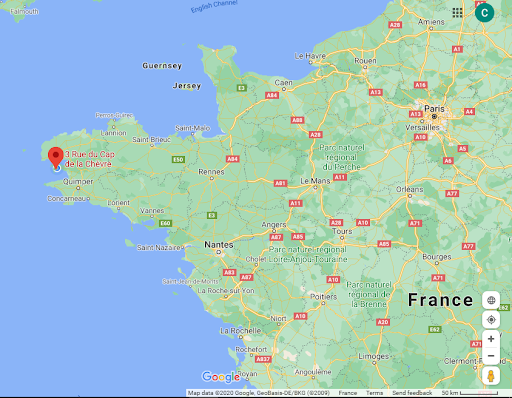
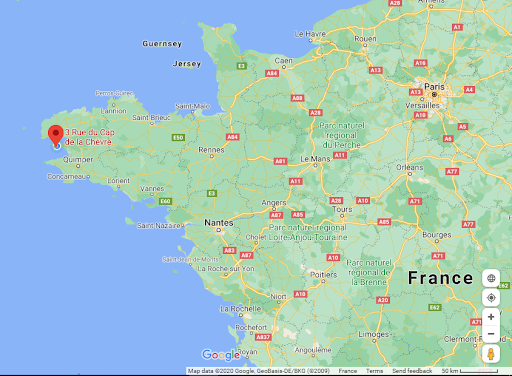
added map slideshow

diff --git a/indexEnglish.html b/indexEnglish.html
@@ -36,9 +36,9 @@
 
 <!-- https://www.w3schools.com/w3css/w3css_slideshow.asp -->
     <div class="auto-slideshow">
-      <img id="narow-image" class="slideshow-slide w3-animate-opacity" src="images/index-images/home.jpg" alt="the morgat home">
-      <img class="slideshow-slide w3-animate-opacity" src="images/index-images/beach-flowers.jpg" alt="morgat beach">
-      <img class="slideshow-slide w3-animate-opacity" src="images/index-images/marina.jpg" alt="morgat harbor">
+      <img id="narow-image" class="slideshow-A-slide w3-animate-opacity" src="images/index-images/home.jpg" alt="the morgat home">
+      <img class="slideshow-A-slide w3-animate-opacity" src="images/index-images/beach-flowers.jpg" alt="morgat beach">
+      <img class="slideshow-A-slide w3-animate-opacity" src="images/index-images/marina.jpg" alt="morgat harbor">
     </div>
 
     <p>The house is about 30 yards from the excellent sandy beach and has three separate apartments which is ideal if you want to spend your
@@ -53,11 +53,11 @@
       <a href="https://pv.viewsurf.com/606/Crozon?color=ffffff&amp;i=MzYzMjo">Morgat webcam</a>
     </div>
 
-    <!-- <div class="auto-slideshow">
-      <img class="slideshow-slide w3-animate-opacity" src="images/maps/map-close.jpg">
-      <img class="slideshow-slide w3-animate-opacity" src="images/maps/map-far.jpg">
-      <img class="slideshow-slide w3-animate-opacity" src="images/maps/map-mid.jpg">
-    </div> -->
+    <div class="auto-slideshow">
+      <img class="slideshow-B-slide w3-animate-opacity" src="images/maps/map-close.jpg">
+      <img class="slideshow-B-slide w3-animate-opacity" src="images/maps/map-far.jpg">
+      <img class="slideshow-B-slide w3-animate-opacity" src="images/maps/map-mid.jpg">
+    </div>
 
     <footer>
       <p class="footer-text">Contact:</p>

diff --git a/js/index-scripts.js b/js/index-scripts.js
@@ -12,6 +12,12 @@ function slideshow(imageArray, slideIndex){
   setTimeout(function(){slideshow(imageArray, slideIndex)}, 5000); //repeat process every 5 seconds
 }
 
-var slidePos = 0;
-var imageItems = document.getElementsByClassName('slideshow-slide'); //Gathering all images labeled 'slideshow-slide'
-slideshow(imageItems, slidePos);
+//first slideshow
+var slideAPos = 0;
+var imageAItems = document.getElementsByClassName('slideshow-A-slide'); //Gathering all images labeled 'slideshow-slide'
+slideshow(imageAItems, slideAPos);
+
+//Second slideshow
+var slideBPos = 0;
+var imageBItems = document.getElementsByClassName('slideshow-B-slide'); //Gathering all images labeled 'slideshow-slide'
+slideshow(imageBItems, slideAPos);

diff --git a/css/styles.css b/css/styles.css
@@ -169,9 +169,15 @@ footer{
   width: 87%;
 }
 
-.slideshow-slide{
+.slideshow-A-slide{
   height: 65vw;
   display: none;
+}
+
+.slideshow-B-slide{
+  height: 65vw;
+  display: none;
+  padding-top: 5%;
 }
 
 #narow-image{
@@ -447,7 +453,12 @@ footer{
     padding-left: 6%;
   }
 
-  .slideshow-slide{
+  .slideshow-A-slide{
+    height: 33vw;
+    padding-left: 25%;
+  }
+
+  .slideshow-B-slide{
     height: 33vw;
     padding-left: 25%;
   }
